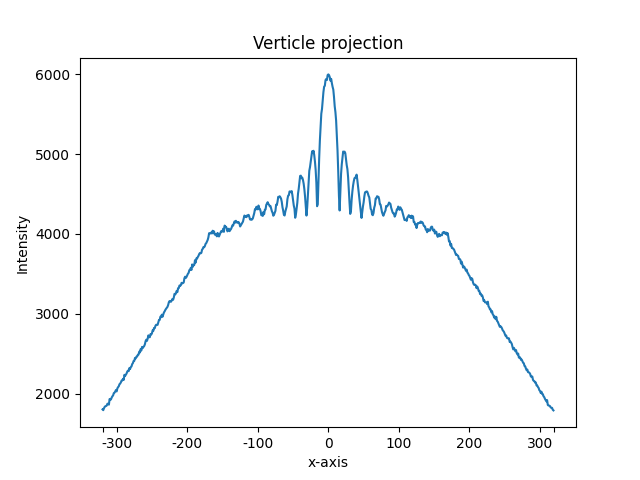
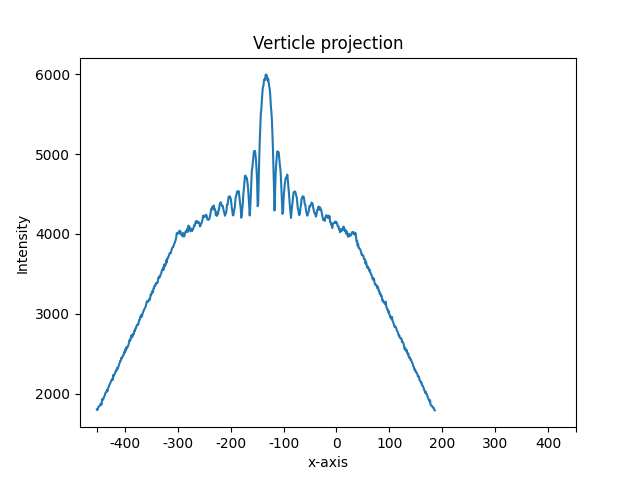
finished coding

diff --git a/homework/homework2/code/p4/p4b.py b/homework/homework2/code/p4/p4b.py
@@ -14,13 +14,13 @@ if __name__ == '__main__':
     frequency_image = generate_frequency_image(origin_image)
     N = frequency_image.shape[0]
 
-    sinogram = radon(frequency_image, preserve_range=True)
+    sinogram = radon(frequency_image, circle=False)
     plt.figure()
     plt.imshow(sinogram, cmap='gray')
     plt.title('Radon transform')
     plt.xlabel('Angle (degrees)')
     plt.ylabel('rho')
-    plt.yticks([0, 20, 120, 220, 320, 420, 520, 620, 640], [-N//2, -300, -200, -100, 0, 100, 200, 300, N//2])
+    plt.yticks([0, 53, 153, 253, 353, 453, 553, 653, 753, 853, 906], [-453, -400, -300, -200, -100, 0, 100, 200, 300, 400, 453])
     plt.savefig('images/p4/p4b_radon.png')
 
     # theta is the angle of the x-coordinate of the Radon image's maximum value
@@ -46,7 +46,7 @@ if __name__ == '__main__':
     plt.title('Verticle projection')
     plt.xlabel('x-axis')
     plt.ylabel('Intensity')
-    plt.xticks([0, 20, 120, 220, 320, 420, 520, 620, 640], [' ', -300, -200, -100, 0, 100, 200, 300, ' '])
+    plt.xticks([0, 53, 153, 253, 353, 453, 553, 653, 753, 853, 906], [' ', -400, -300, -200, -100, 0, 100, 200, 300, 400, ' '])
     plt.savefig('images/p4/p4b_intensity.png')
 
     # get the motion blur length
